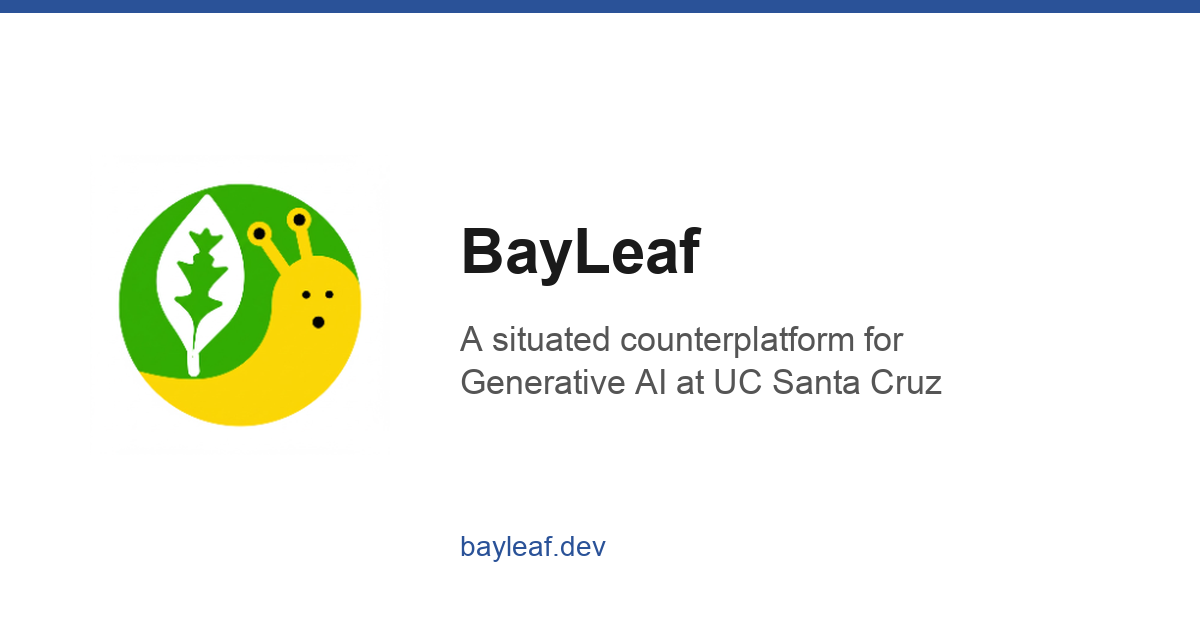
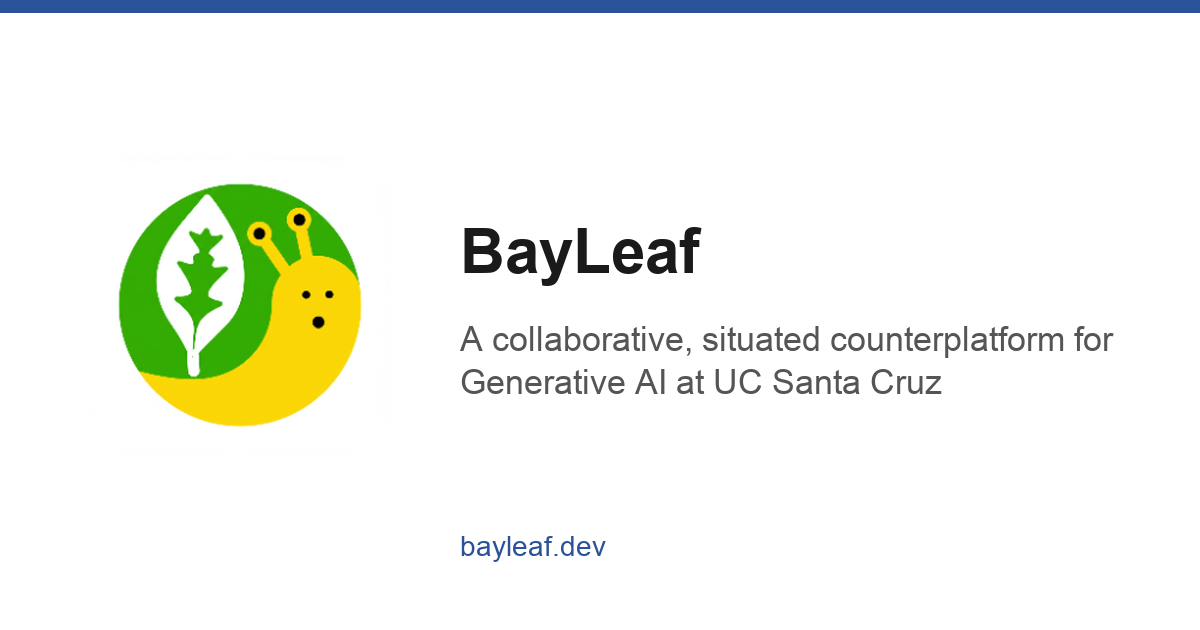
update: describe BayLeaf as collaborative in the tagline

Changed region(s): [[0.4008, 0.5127, 0.925, 0.573]]

diff --git a/landing/index.html b/landing/index.html
@@ -4,7 +4,7 @@
     <meta charset="UTF-8">
     <meta name="viewport" content="width=device-width, initial-scale=1.0">
     <title>BayLeaf</title>
-    <meta name="description" content="A situated counterplatform for Generative AI at UC Santa Cruz: chat and API services for students, faculty, and staff, operated by a faculty member.">
+    <meta name="description" content="A collaborative, situated counterplatform for Generative AI at UC Santa Cruz: chat and API services for students, faculty, and staff, operated by a faculty member.">
     <link rel="canonical" href="https://bayleaf.dev/">
     <link rel="stylesheet" href="style.css">
     <!-- Share card. og:image must be an absolute URL: Slack, Discord, Canvas, and
@@ -13,18 +13,18 @@
     <meta property="og:type" content="website">
     <meta property="og:site_name" content="BayLeaf">
     <meta property="og:title" content="BayLeaf">
-    <meta property="og:description" content="A situated counterplatform for Generative AI at UC Santa Cruz: chat and API services for students, faculty, and staff.">
+    <meta property="og:description" content="A collaborative, situated counterplatform for Generative AI at UC Santa Cruz: chat and API services for students, faculty, and staff.">
     <meta property="og:url" content="https://bayleaf.dev/">
     <meta property="og:image" content="https://bayleaf.dev/images/og-card.png">
     <meta property="og:image:width" content="1200">
     <meta property="og:image:height" content="630">
-    <meta property="og:image:alt" content="The BayLeaf logo, a white bay leaf and a yellow banana slug on a green circle, beside the name BayLeaf and the words A situated counterplatform for Generative AI at UC Santa Cruz.">
+    <meta property="og:image:alt" content="The BayLeaf logo, a white bay leaf and a yellow banana slug on a green circle, beside the name BayLeaf and the words A collaborative, situated counterplatform for Generative AI at UC Santa Cruz.">
     <meta name="twitter:card" content="summary_large_image">
 </head>
 <body>
     <main id="main">
     <h1>BayLeaf</h1>
-    <p class="tagline">A situated counterplatform for Generative AI at UC Santa Cruz</p>
+    <p class="tagline">A collaborative, situated counterplatform for Generative AI at UC Santa Cruz</p>
 
     <div class="services">
         <a href="https://chat.bayleaf.dev/" class="service-link green">BayLeaf Chat</a>

diff --git a/landing/images/make-og-card.py b/landing/images/make-og-card.py
@@ -43,7 +43,7 @@ TITLE_FONT = "/System/Library/Fonts/Supplemental/Arial Bold.ttf"
 BODY_FONT = "/System/Library/Fonts/Supplemental/Arial.ttf"
 
 TITLE = "BayLeaf"
-TAGLINE = "A situated counterplatform for\nGenerative AI at UC Santa Cruz"
+TAGLINE = "A collaborative, situated counterplatform for\nGenerative AI at UC Santa Cruz"
 FOOTER = "bayleaf.dev"
 
 
